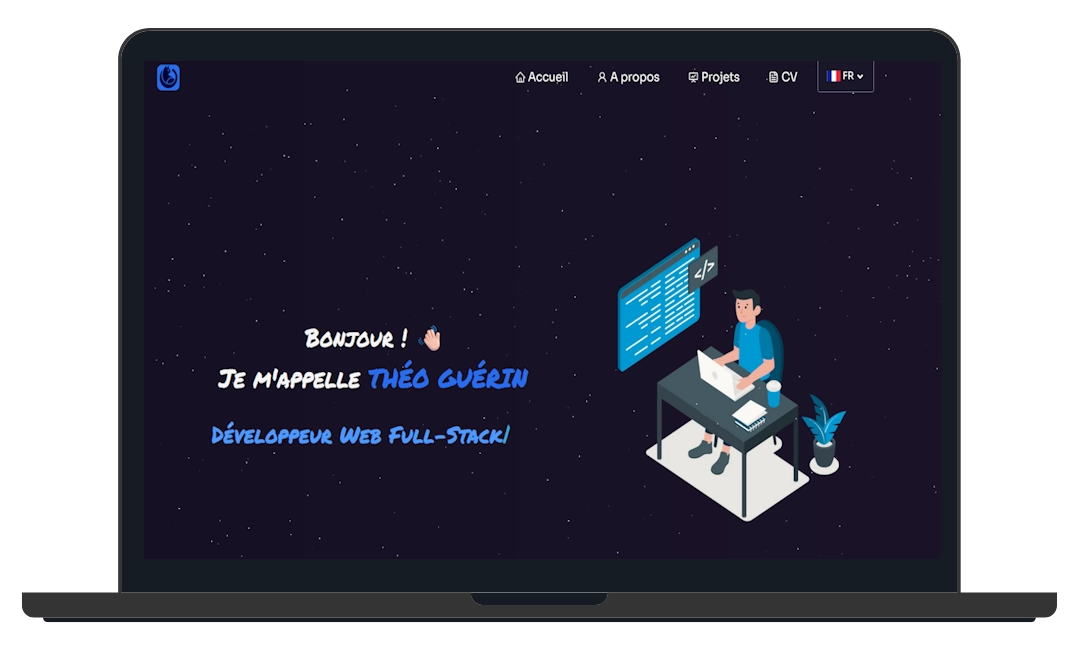
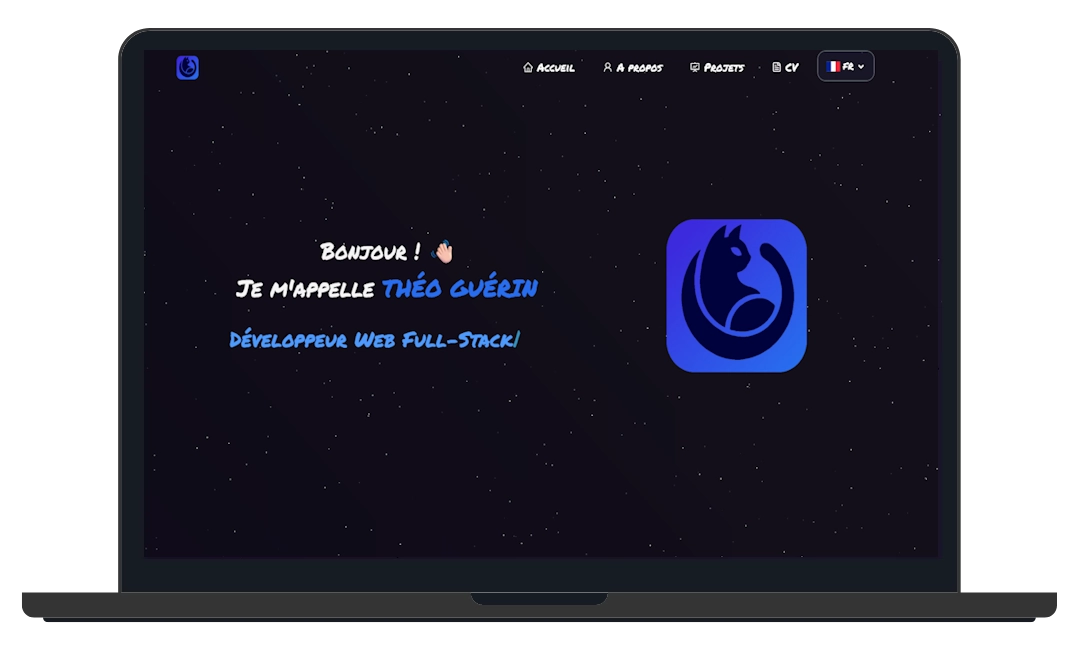
new img

diff --git a/src/components/Home/Home.js b/src/components/Home/Home.js
@@ -1,7 +1,8 @@
 import React from "react";
 import { useTranslation } from 'react-i18next';
 import { Container, Row, Col } from "react-bootstrap";
-import homeLogo from "../../Assets/home/home-main.webp";
+import myImg from "../../Assets/logo.webp";
+import Tilt from "react-parallax-tilt";
 import Particle from "../Utils/Particle";
 import Home2 from "./Home2";
 import Type from "./Type";
@@ -20,7 +21,7 @@ function Home() {
       <Container fluid className="about-section pt-0" id="home">
         <Particle />
         <Container className="home-content">
-          <Row className="align-items-center">
+          <Row className="align-items-center" style={{ paddingBottom: "12em",paddingTop: "6em" }}>
             {/* Colonne pour le texte */}
             <Col md={7} className="home-header slide-in-left d-flex flex-column justify-content-center text-center text-md-left py-5">
               <h1 className="heading mb-3 title-font">
@@ -40,12 +41,16 @@ function Home() {
 
             {/* Colonne pour l'image */}
             <Col md={5} className={`d-flex justify-content-center py-5 ${imgInView ? 'slide-in-right' : ''}`} ref={refImg}>
-              <img
-                src={homeLogo}
-                alt={t('web_dev_illustration')} 
-                className="img-fluid"
-                style={{ maxHeight: "90%" }}
-              />
+              <Tilt>
+                <img
+                  src={myImg}
+                  className={`img-fluid ${imgInView ? 'slide-in-right' : ''}`}
+                  ref={refImg}
+                  alt={t('theo_developer')}
+                  style={{ height: "16em" }}
+                  loading="lazy"
+                />
+              </Tilt>
             </Col>
           </Row>
           <Home2 />
